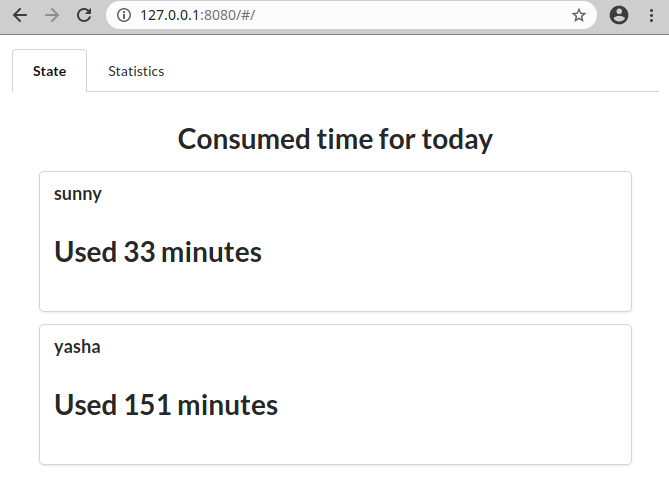
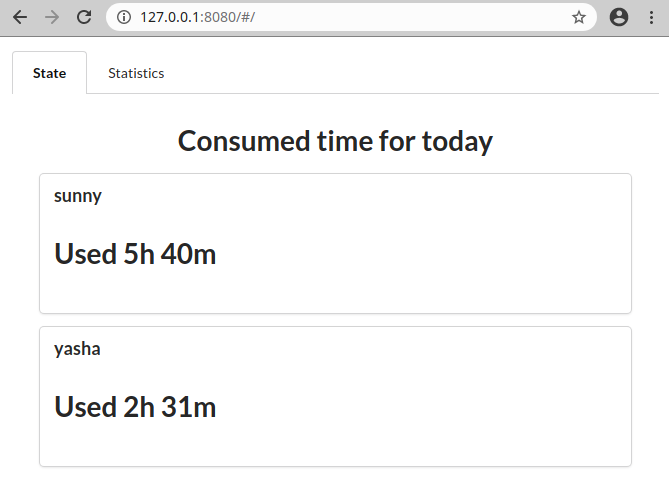
Fix timeformat and README file

diff --git a/web-ui/src/components/State.jsx b/web-ui/src/components/State.jsx
@@ -11,8 +11,8 @@ const style = {
 }
 
 function formatTime(hours) {
-  let h = Math.floor(hours)
-  let m = Math.floor((hours - h)*60)
+  let h = Math.floor(hours / 60)
+  let m = Math.floor((hours - h*60))
   return `${h}h ${m}m`
 }
 

diff --git a/README.md b/README.md
@@ -74,7 +74,7 @@ commands:
   # Template params
   #   {0} is user name/login
   #
-  message: "echo 'This is stub which is not sent a message anywhere'"
+  message: "notify-send 'Your time is mostly up' 'You have only 3 minutes before logout.' --icon=dialog-information || mpg321 /usr/share/parental-control/alien-siren.mp3"
 
   # Command which should kill/logout a user
   kill: "skill -KILL -u {0}"
@@ -92,7 +92,7 @@ httpStaticPath: /usr/share/parental-control
 users:
   - login: yasha
     timeLimit: 150             # Daily time limit (minutes)
-    noticePeriod: 5            # Notice period is the time period between the sending message and the killing of a user (minutes)
+    noticePeriod: 3            # Notice period is the time period between the sending message and the killing of a user (minutes)
     schedule:
       mon:
         - start: 07:00
@@ -128,7 +128,7 @@ users:
 
   - login: sunny
     timeLimit: 18000           # Minutes
-    noticePeriod: 5            # Notice period is the time period between the sending message and the killing of a user (minutes)
+    noticePeriod: 3            # Notice period is the time period between the sending message and the killing of a user (minutes)
     schedule:
       mon:
         - start: 05:00
@@ -167,7 +167,7 @@ By default HTTP interface is available on http://localhost:8090 where following 
 
   * http://localhost:8090/state returns state of the app as JSON in the next format
     
-    ```yaml
+    ```json
     {
         "userStates": {
             "sunny": {
@@ -183,6 +183,16 @@ By default HTTP interface is available on http://localhost:8090 where following 
         }
     }
     ``` 
+  * http://localhost:8090/stats returns aggregated logs for one year and all users
+    
+    ```json
+    [
+        { "user": "yasha", "date": "2020-09-14", "minutes": 60 },
+        { "user": "sunny", "date": "2020-09-14", "minutes": 87 },
+        { "user": "yasha", "date": "2020-09-15", "minutes": 10 }
+        ...
+    ]
+    ```
 
 ## Maintenance 
 
